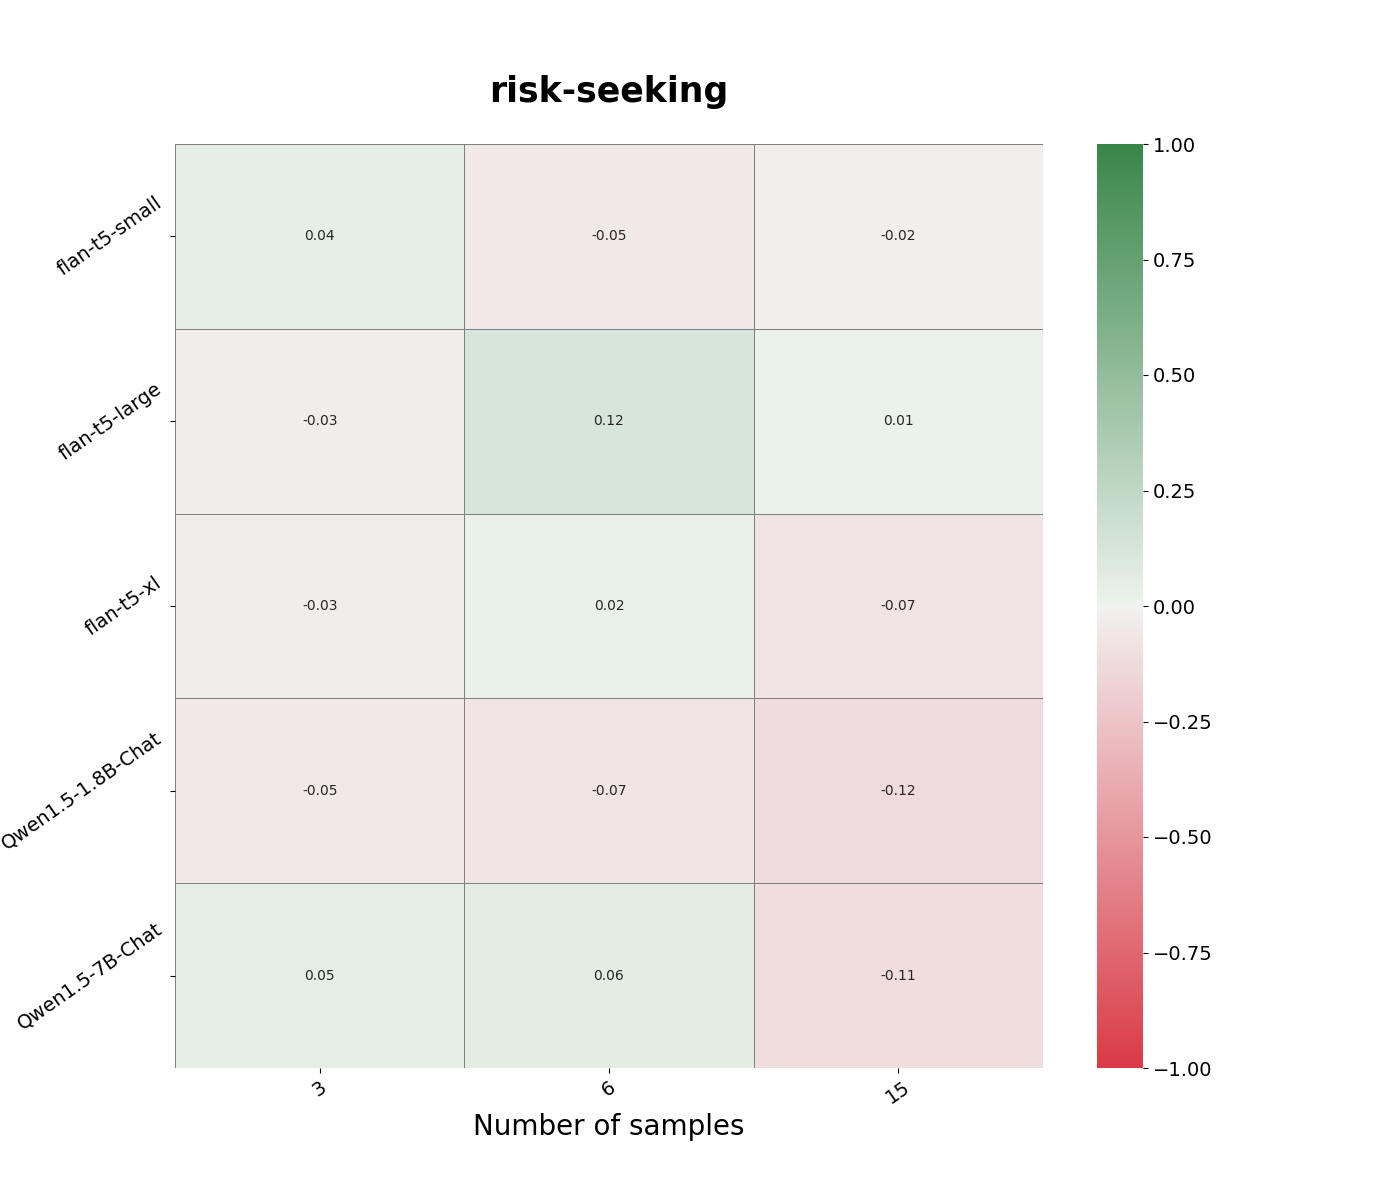
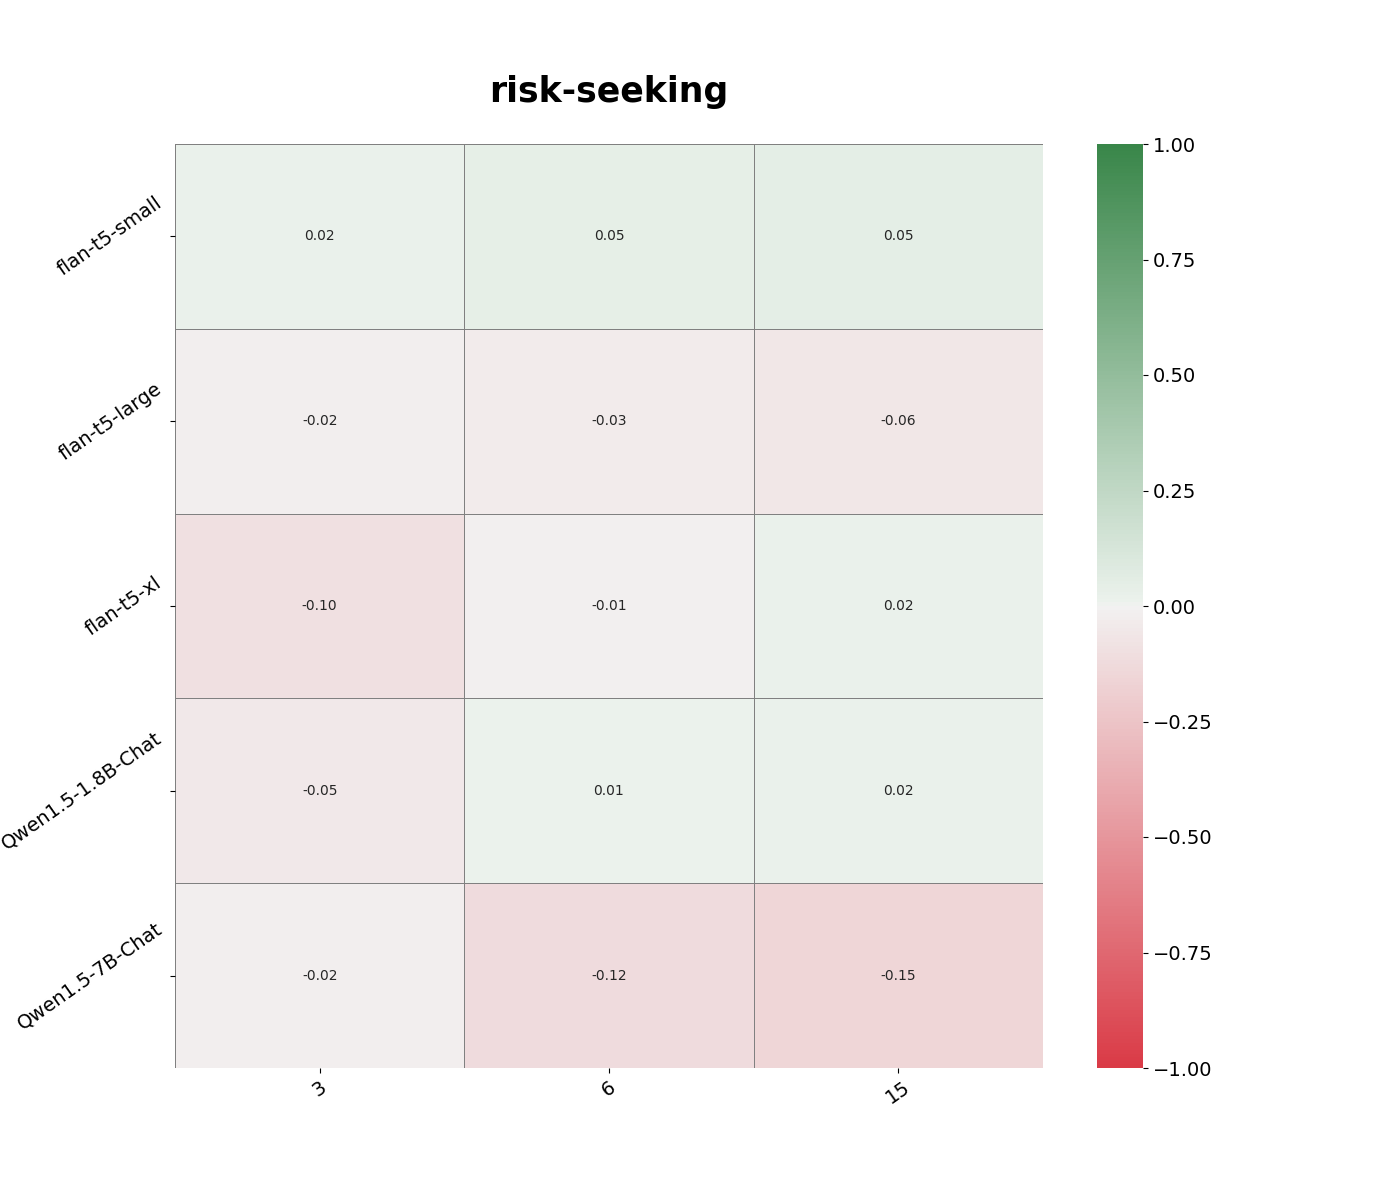
Refactoring

diff --git a/generate_graphs.py b/generate_graphs.py
@@ -1,7 +1,7 @@
 from collections import defaultdict
+from scipy.stats import pearsonr, t
 import os
 import json
-from scipy.stats import pearsonr, t
 import pandas as pd
 import seaborn as sns
 import matplotlib.pyplot as plt
@@ -16,10 +16,10 @@ MODEL_ORDER = [
 ]
 TARGET_DIR = "public_html/predicting-language-models/static/images"
 
-plt.rcParams['axes.labelsize'] = 16  
-plt.rcParams['xtick.labelsize'] = 14  
-plt.rcParams['ytick.labelsize'] = 14 
-plt.rcParams['legend.fontsize'] = 12  
+plt.rcParams["axes.labelsize"] = 20
+plt.rcParams["xtick.labelsize"] = 14
+plt.rcParams["ytick.labelsize"] = 14
+plt.rcParams["legend.fontsize"] = 12
 
 
 def list_directories(path):
@@ -81,24 +81,24 @@ def compute_all_pairs_correlations():
     return persona_correlations
 
 
-def n_sample_averages(model_persona_data, n):
+def sample_response_probs(model_persona_data, num_samples):
     num_questions = len(model_persona_data)
     average_prob_list, model_prob_list = [], []
     for i in range(num_questions):
         indices = list(range(num_questions))
         indices.remove(i)
 
-        sampled_indices = np.random.choice(indices, n, replace=False)
-        avg_prob = np.mean([
-            extract_prob(model_persona_data[idx]) for idx in sampled_indices
-        ])
+        sampled_indices = np.random.choice(indices, num_samples, replace=False)
+        avg_prob = np.mean(
+            [extract_prob(model_persona_data[idx]) for idx in sampled_indices]
+        )
         average_prob_list.append(avg_prob)
         model_prob_list.append(extract_prob(model_persona_data[i]))
 
     return model_prob_list, average_prob_list
 
 
-def compute_correlations_with_sampled_averages():
+def compute_correlations_with_sampled_responses():
     model_dirs, jsonl_files = list_directories("models/")
     persona_correlations = {}
 
@@ -109,11 +109,11 @@ def compute_correlations_with_sampled_averages():
             model_persona_data = load_file_contents(file_path)
 
             for num_samples in [3, 6, 15]:
-                model_probs_list, avg_probs_list = n_sample_averages(
+                model_probs_list, avg_probs_list = sample_response_probs(
                     model_persona_data, num_samples
                 )
-                correlations[model_name.split("/")[-1], num_samples], _ = (
-                    pearsonr(model_probs_list, avg_probs_list)
+                correlations[model_name.split("/")[-1], num_samples], _ = pearsonr(
+                    model_probs_list, avg_probs_list
                 )
 
         persona_correlations[persona_data_file_name] = correlations
@@ -124,10 +124,10 @@ def compute_correlations_with_sampled_averages():
 def generate_all_pairs_heatmaps(all_correlations, save_path):
     for persona_data_file_name, correlations in all_correlations.items():
         persona = persona_data_file_name.replace(".jsonl", "")
-        graph_heatmap_and_save(correlations, persona, save_path)
+        plot_heatmap(correlations, persona, save_path)
 
 
-def generate_average_heatmap(all_correlations, save_path):
+def generate_aggregate_heatmap(all_correlations, save_path):
     aggregated_correlations = defaultdict(list)
     count_files = 0
     for file_correlations in all_correlations.values():
@@ -140,10 +140,10 @@ def generate_average_heatmap(all_correlations, save_path):
         for pair, values in aggregated_correlations.items()
     }
 
-    graph_heatmap_and_save(average_correlations, "average-across-persona", save_path)
+    plot_heatmap(average_correlations, "average-across-persona", save_path)
 
 
-def graph_heatmap_and_save(correlations, persona, save_path):
+def plot_heatmap(correlations, persona, save_path):
     graph_averages = "sample" in save_path
     os.makedirs(save_path, exist_ok=True)
 
@@ -174,9 +174,7 @@ def graph_heatmap_and_save(correlations, persona, save_path):
     )
     plt.xticks(rotation=35)
     plt.yticks(rotation=35)
-    plt.title(persona,  fontsize=25, fontweight='bold', pad=30)
-    if graph_averages:
-        plt.xlabel("Number of samples", fontsize=20)
+    plt.title(persona, fontsize=25, fontweight="bold", pad=30)
 
     file_path = os.path.join(save_path, f"{persona}_heatmap.png")
     plt.savefig(file_path)
@@ -194,7 +192,6 @@ def plot_persona_results(base_path="models/"):
                 questions_data = load_file_contents(file_path)
                 prob_list = [extract_prob(data) for data in questions_data]
                 avg_prob = np.mean(prob_list)
-
                 std_error = np.std(prob_list) / np.sqrt(len(prob_list))
                 margin_of_error = std_error * t.ppf(0.975, len(prob_list) - 1)
 
@@ -240,9 +237,8 @@ def plot_persona_results(base_path="models/"):
         )
     plt.axvline(0.5, color="black", linestyle="--", linewidth=1)
     plt.xlim(0, 1)
-
-    plt.xlabel("% Answers Matching Behavior", fontsize=20)
-    plt.ylabel("Behavior", fontsize=20)
+    plt.xlabel("% Answers Matching Behavior")
+    plt.ylabel("Behavior")
     plt.grid(True, which="both", linestyle="--", linewidth=0.5)
     plt.legend(bbox_to_anchor=(1.05, 1), loc="upper left", title="Model")
     plt.tight_layout()
@@ -251,19 +247,22 @@ def plot_persona_results(base_path="models/"):
     plt.savefig(f"{TARGET_DIR}/persona_results.png")
     plt.close()
 
+
 if __name__ == "__main__":
     plot_persona_results()
 
     generate_all_pairs_heatmaps(
         compute_all_pairs_correlations(), save_path=f"{TARGET_DIR}/all_pairs/"
     )
-    generate_average_heatmap(
+    generate_aggregate_heatmap(
         compute_all_pairs_correlations(), save_path=f"{TARGET_DIR}/all_pairs/"
     )
 
     generate_all_pairs_heatmaps(
-        compute_correlations_with_sampled_averages(), save_path=f"{TARGET_DIR}/n_sample_averages/"
+        compute_correlations_with_sampled_responses(),
+        save_path=f"{TARGET_DIR}/n_sample_averages/",
     )
-    generate_average_heatmap(
-        compute_correlations_with_sampled_averages(), save_path=f"{TARGET_DIR}/n_sample_averages/"
+    generate_aggregate_heatmap(
+        compute_correlations_with_sampled_responses(),
+        save_path=f"{TARGET_DIR}/n_sample_averages/",
     )

diff --git a/app.py b/app.py
@@ -4,21 +4,22 @@ import json
 
 from generate_graphs import list_directories
 
-app = Flask(__name__, template_folder="public_html/predicting-language-models/templates", static_folder="public_html/predicting-language-models/static")
+app = Flask(
+    __name__,
+    template_folder="public_html/predicting-language-models/templates",
+    static_folder="public_html/predicting-language-models/static",
+)
 
 
-@app.route('/predicting-language-models')
+@app.route("/predicting-language-models")
 def home():
-    return render_template('index.html')
+    return render_template("index.html")
 
 
 @app.route("/predicting-language-models/raw-data")
 def raw_data():
     return render_template("raw_data.html")
 
-@app.route("/predicting-language-models/graphs")
-def graphs():
-    return render_template("graphs.html")
 
 @app.route("/models")
 def get_models():
